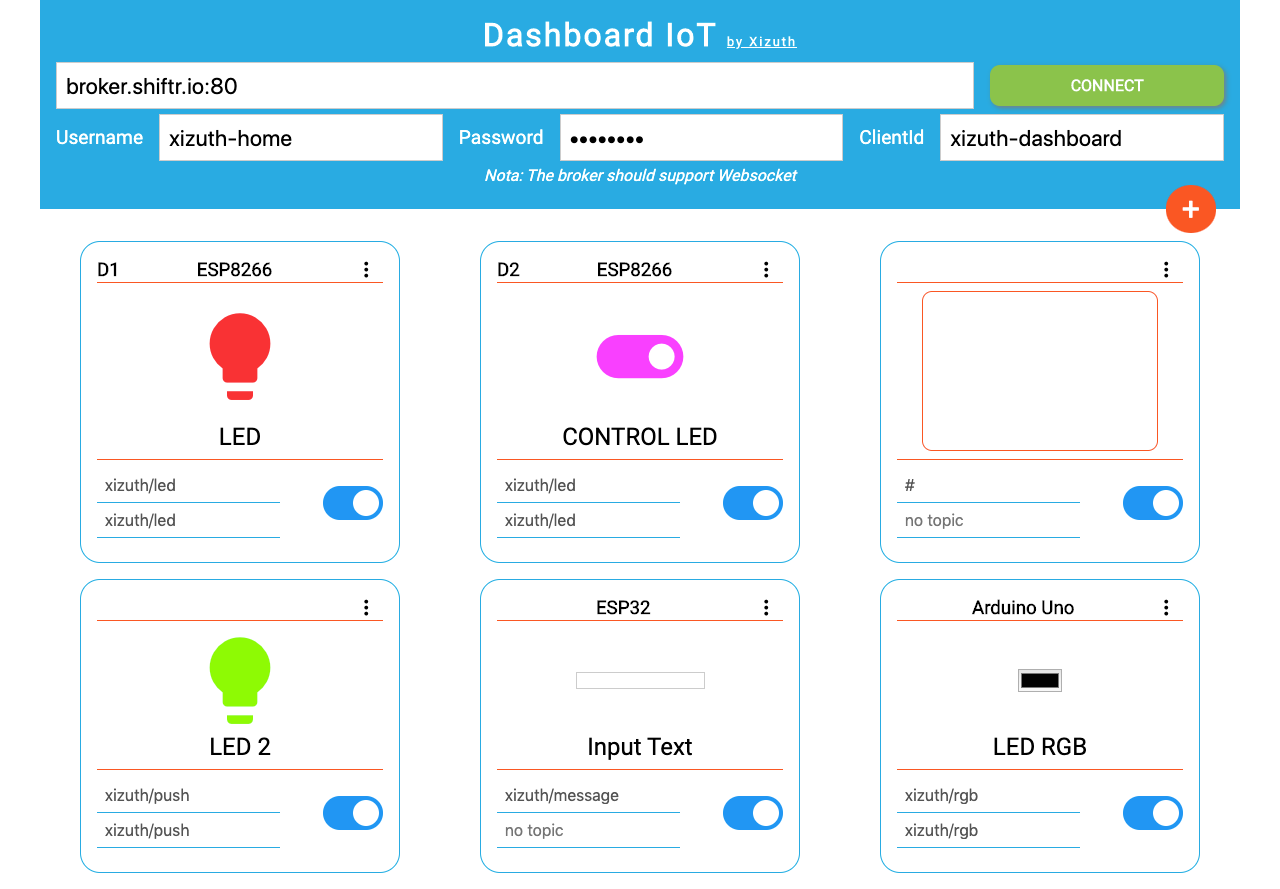
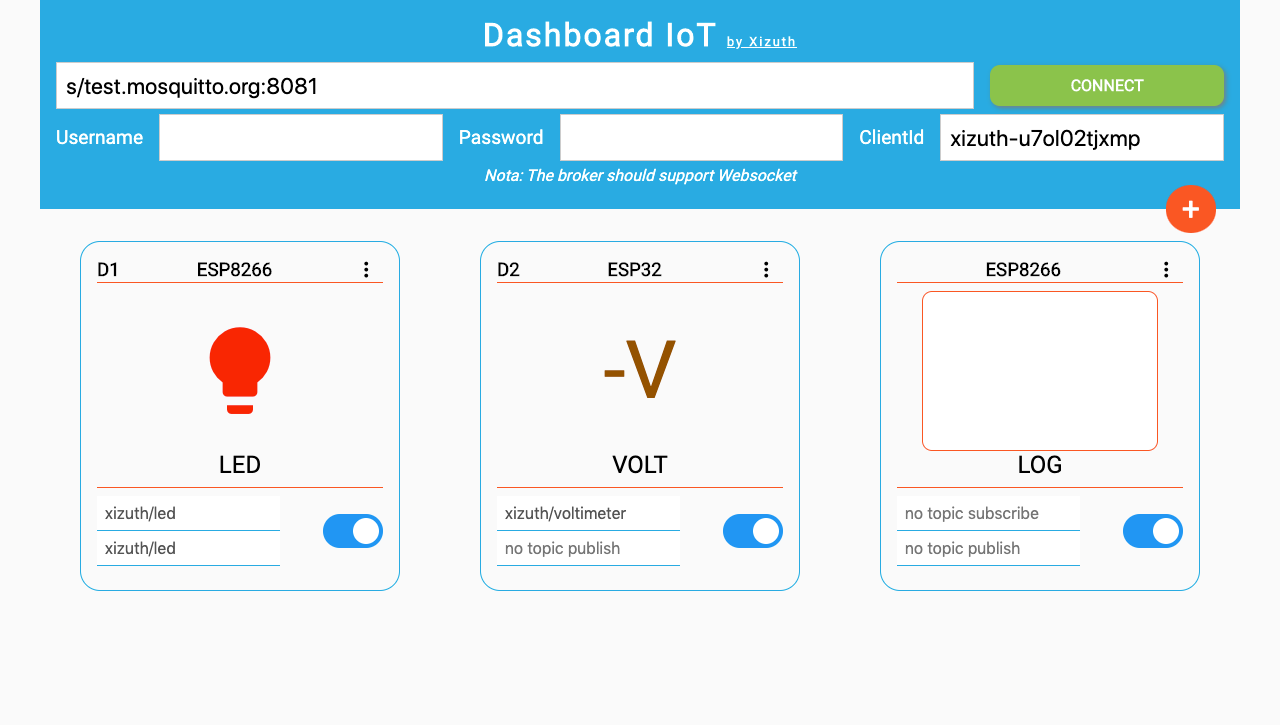
404

diff --git a/Readme.md b/Readme.md
@@ -1,7 +1,11 @@
 # ![](https://raw.githubusercontent.com/jalmx/dashboard-iot/master/src/assets/favicon/android-icon-72x72.png) Dashboard Iot Manager
 
+## [Go to Dashboard](https://xizuth-iot.web.app/)
+
 ## Screenshot
 
 ![](https://raw.githubusercontent.com/jalmx/dashboard-iot/master/imgs/screencapture-1.png)
 
 ![](https://raw.githubusercontent.com/jalmx/dashboard-iot/master/imgs/screencapture-2.png)
+
+![](https://raw.githubusercontent.com/jalmx/dashboard-iot/master/imgs/screencapture-3.png)
